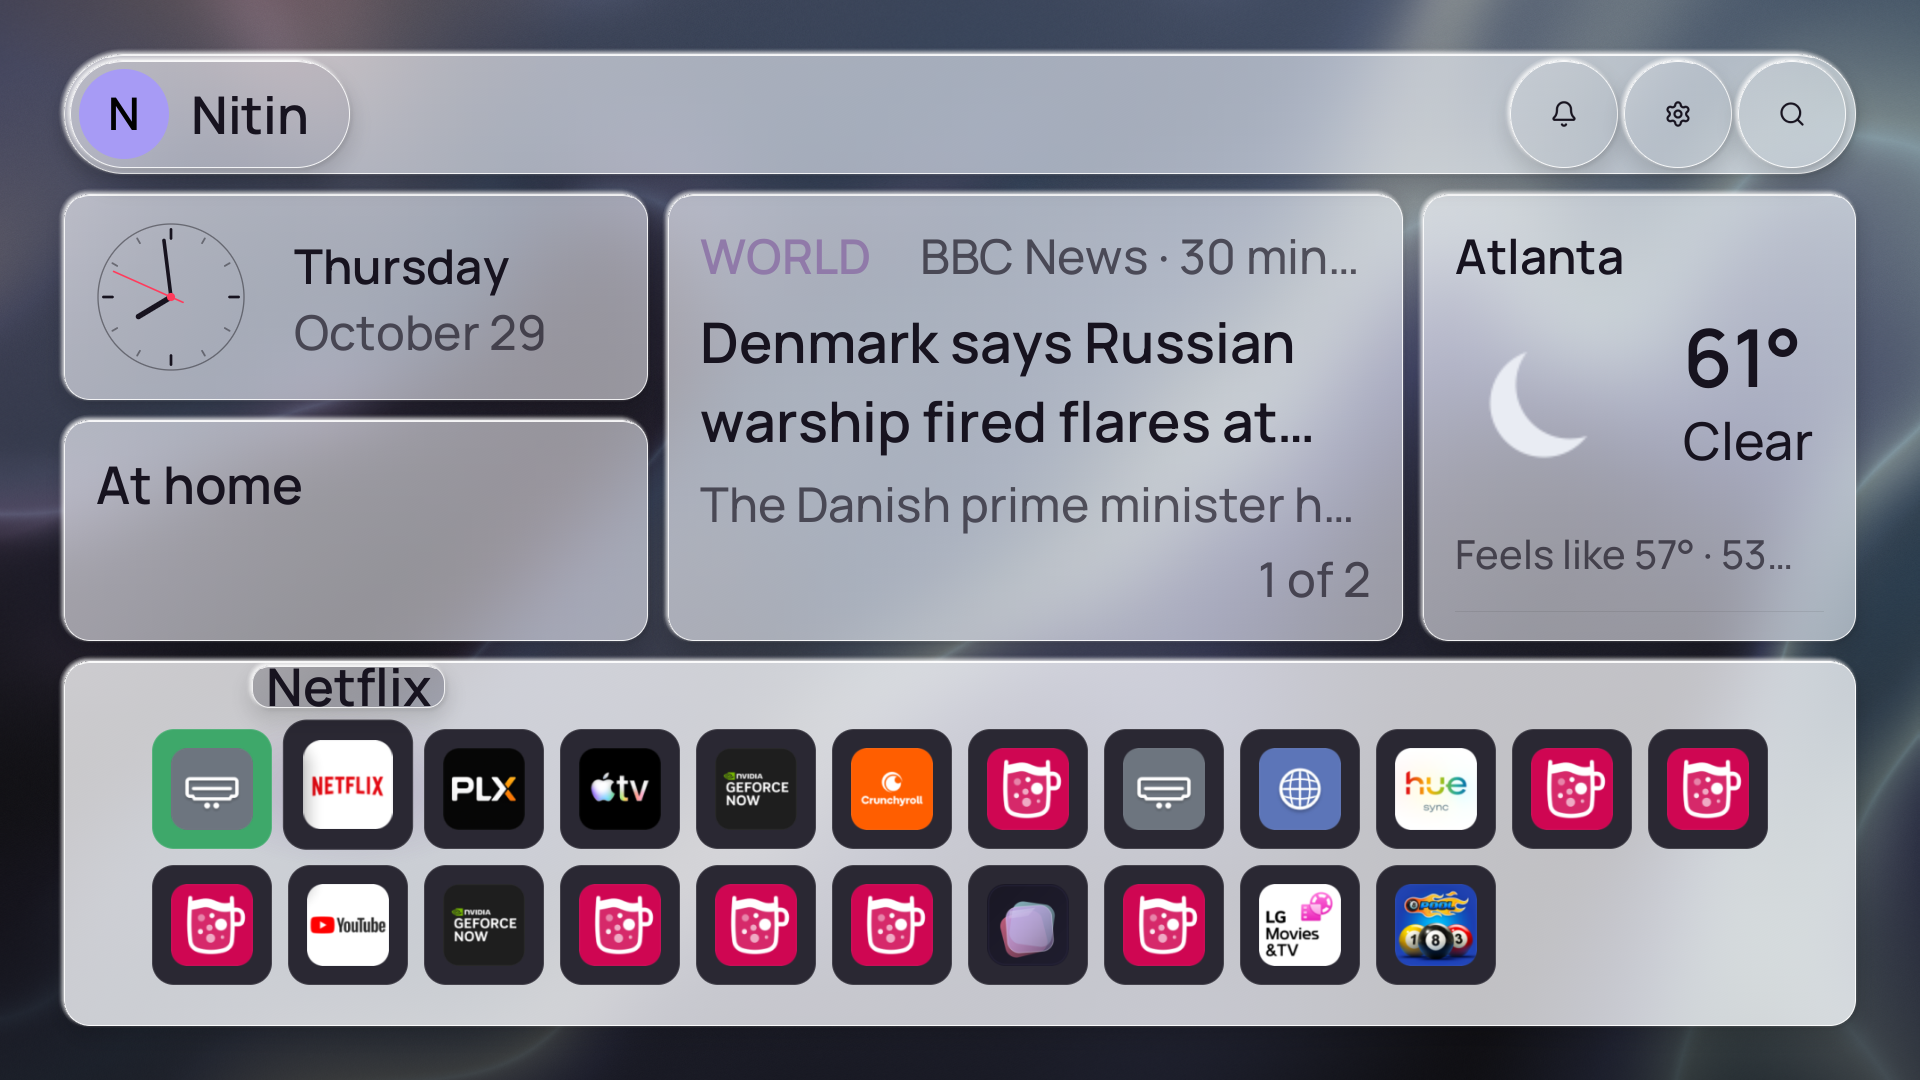
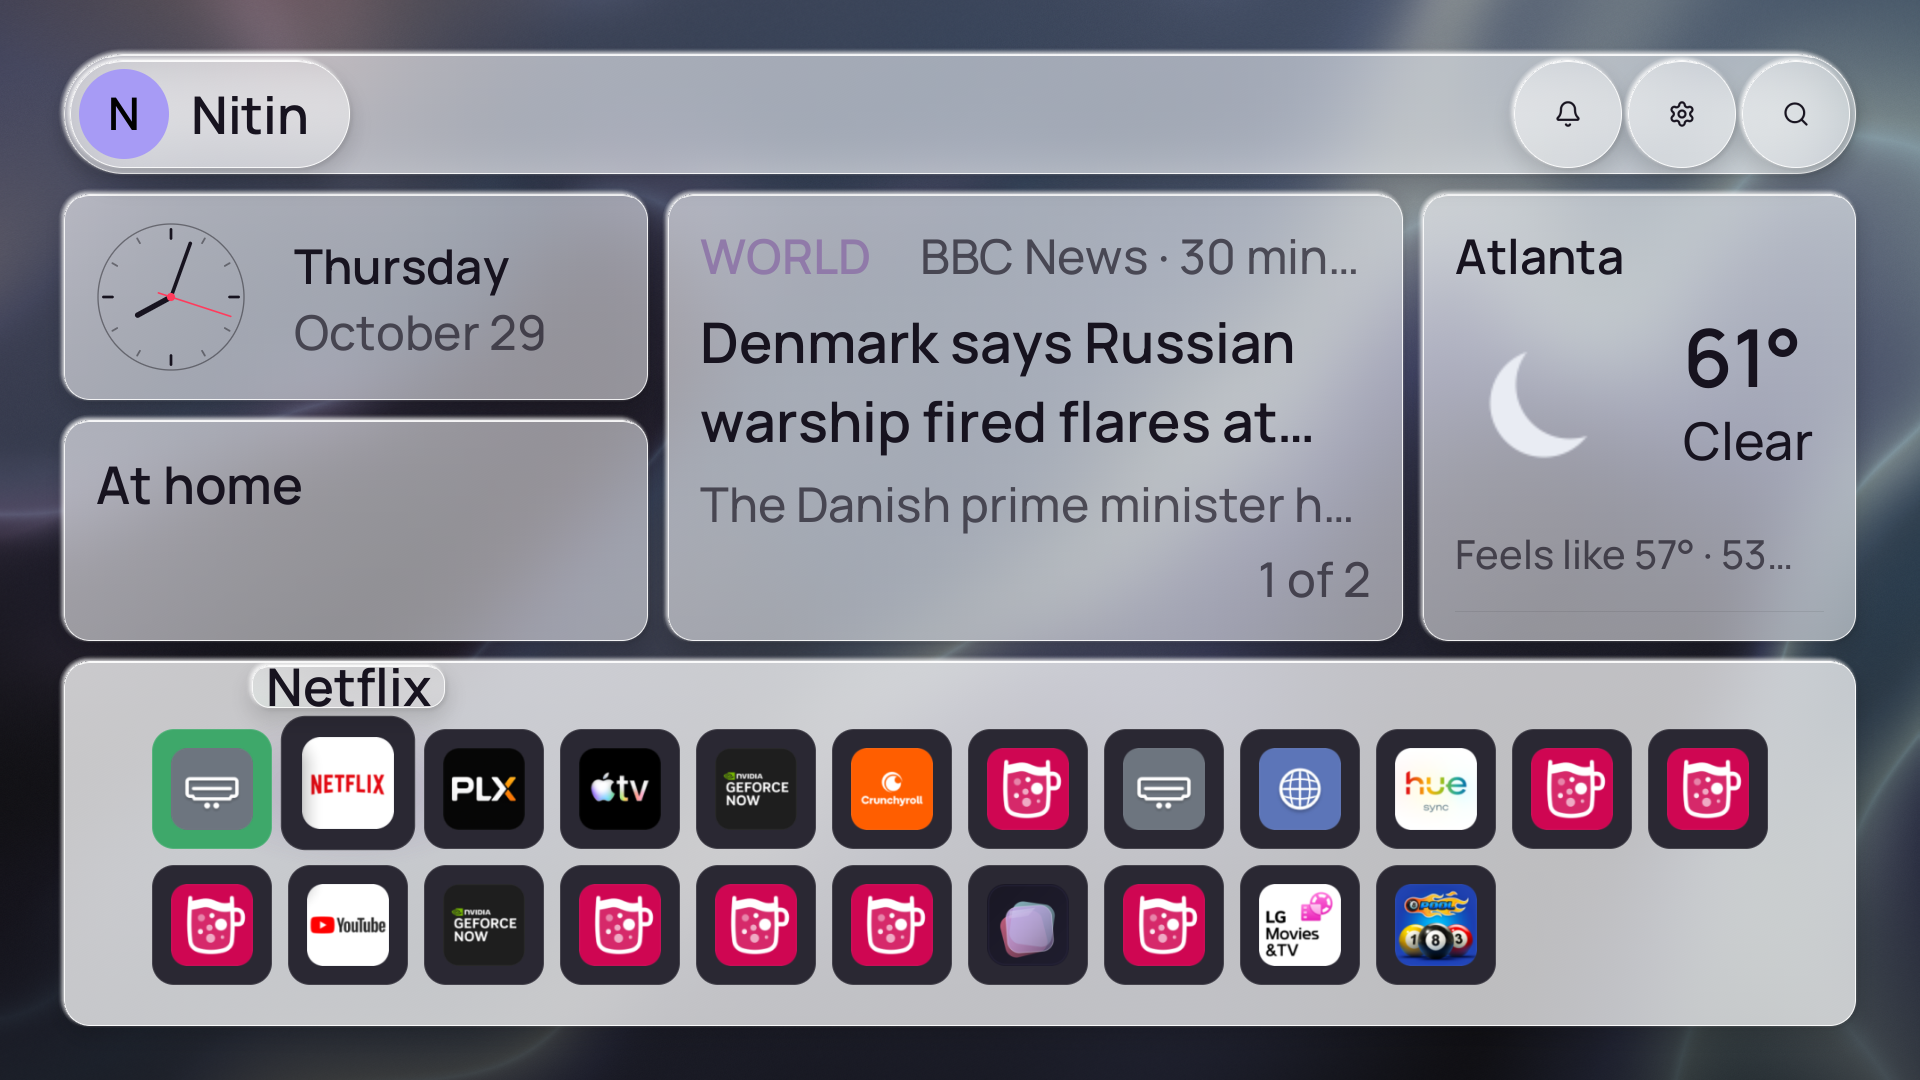
Home: the status bar's buttons sit 6 px from the pill's right end as from its left, so each is concentric with its cap; the drawer's fallback bell position is the default layout's

diff --git a/rustui/ui/src/home/model.rs b/rustui/ui/src/home/model.rs
@@ -420,7 +420,7 @@ impl Home {
         self.widget_ids.get(i).map(String::as_str)
     }
 
-    /// The status bar's buttons sit in a pill at the safe corner: item `i` is `48 + 6` apart, left from 6, right ending 10 in.
+    /// The status bar's buttons sit in a pill at the safe corner: item `i` is `48 + 6` apart, left from 6, right ending 6 in (the same gap as at the left, so every button is concentric with the pill's cap).
     pub fn status_frames(&self) -> Vec<(f32, f32, f32, f32)> {
         let (sx, sy) = self.safe();
         let items = self.status_items();
@@ -439,7 +439,7 @@ impl Home {
         }
         let right: Vec<f32> = items.iter().skip(left).map(|it| self.status_item_width(it)).collect();
         let total: f32 = right.iter().sum::<f32>() + 6.0 * right.len().saturating_sub(1) as f32;
-        let mut rx = sx + w - 10.0 - total;
+        let mut rx = sx + w - 6.0 - total;
         for iw in right {
             out.push((rx, sy + 6.0, iw, item_h));
             rx += iw + 6.0;
@@ -492,7 +492,7 @@ impl Home {
         }
         let (sx, sy) = self.safe();
         let side = self.status_height() - 12.0;
-        [1920.0 - sx - 10.0 - side, sy + 6.0, side, side]
+        [1920.0 - sx - 6.0 - side, sy + 6.0, side, side]
     }
 
     // ---- profiles

diff --git a/rustui/ui/src/panels/drawer_surface.rs b/rustui/ui/src/panels/drawer_surface.rs
@@ -47,7 +47,7 @@ const SHEET_MIN_H: f32 = 240.0;
 const TILE: f32 = 48.0;
 /// Where Home's bell is with the default layout (`Home::bell_frame`, which the shell hands to the panels each frame): the drawer's way in
 /// and out until it is told.
-pub const BELL: [f32; 4] = [1798.0, 60.0, 48.0, 48.0];
+pub const BELL: [f32; 4] = [1694.0, 60.0, 48.0, 48.0];
 
 /// What the pointer can land on.
 #[derive(Clone, Copy, Debug, PartialEq, Eq)]
